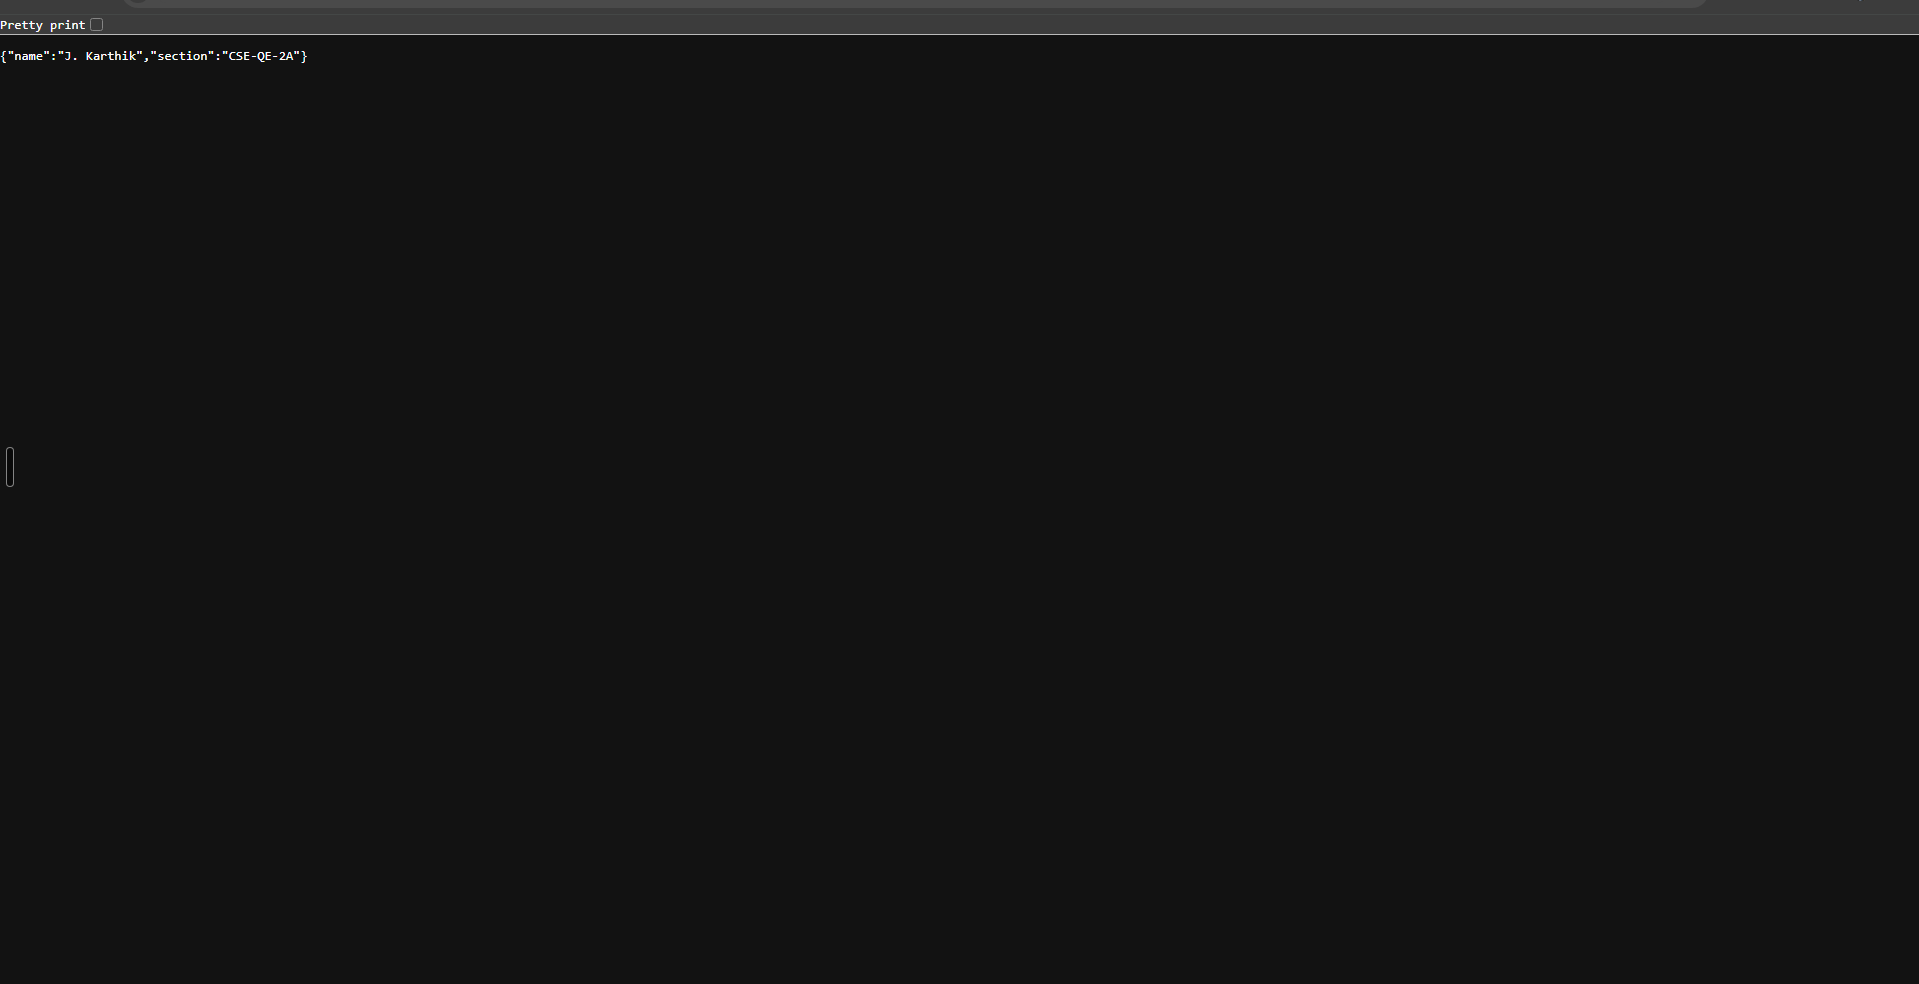
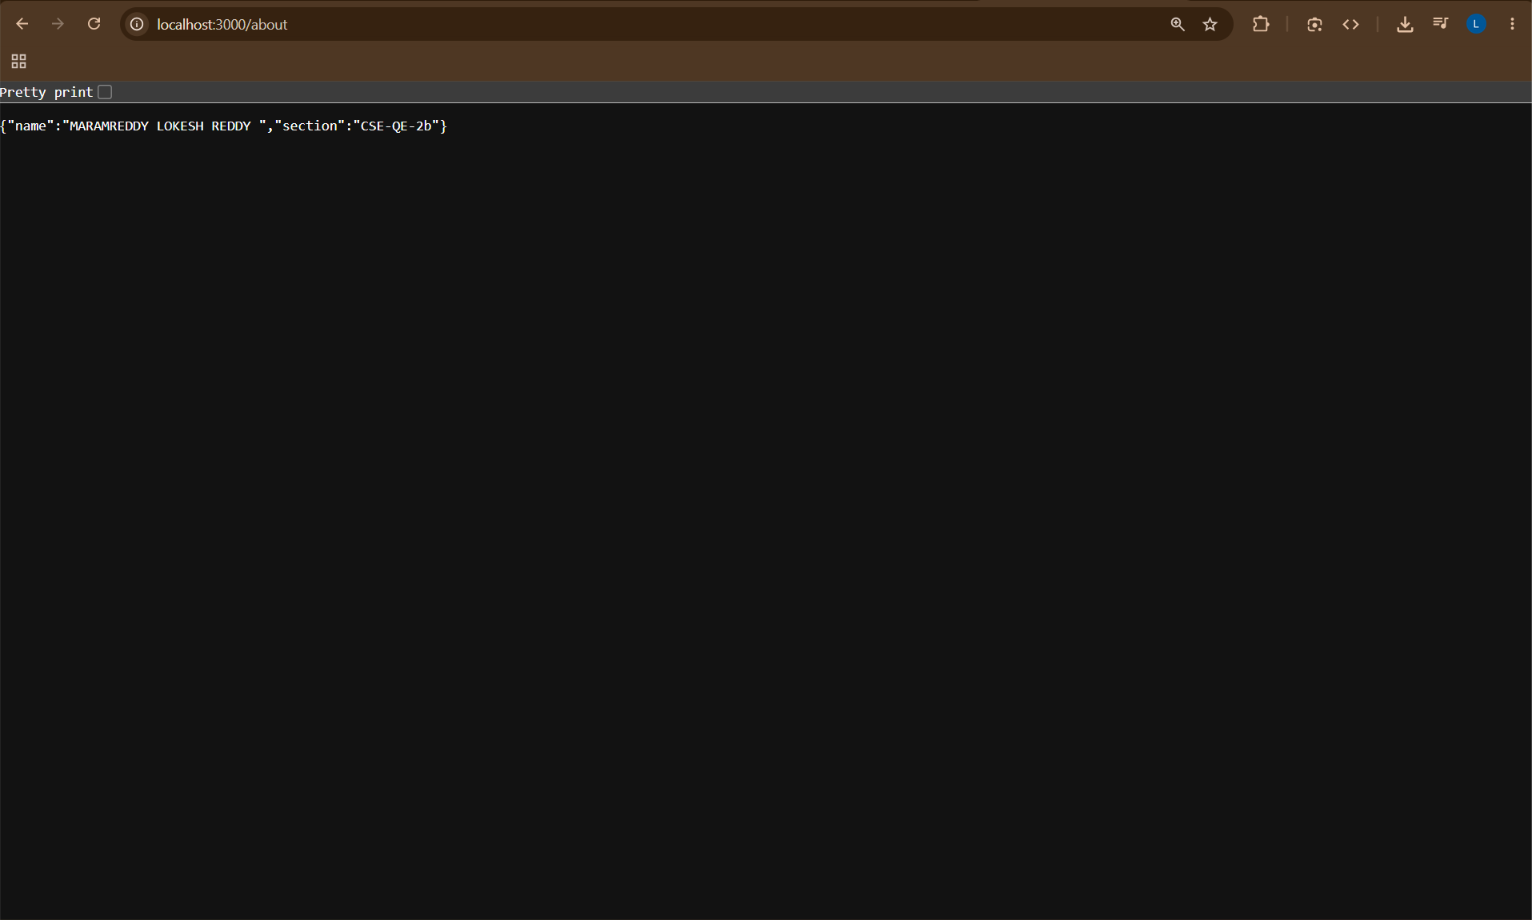
Update about page materials

Changed region(s): [[0.0, 0.0, 1.0, 0.1522]]

diff --git a/README.md b/README.md
@@ -40,7 +40,7 @@ npm -v
 ### 1. Clone the repository
 
 ```bash
-git clone https://github.com/karthikjakkileti-rk/bdf-labs.git
+git clone https://github.com/lokeshreddy230/lab1.git
 ```
 
 ### 2. Navigate to the project directory
